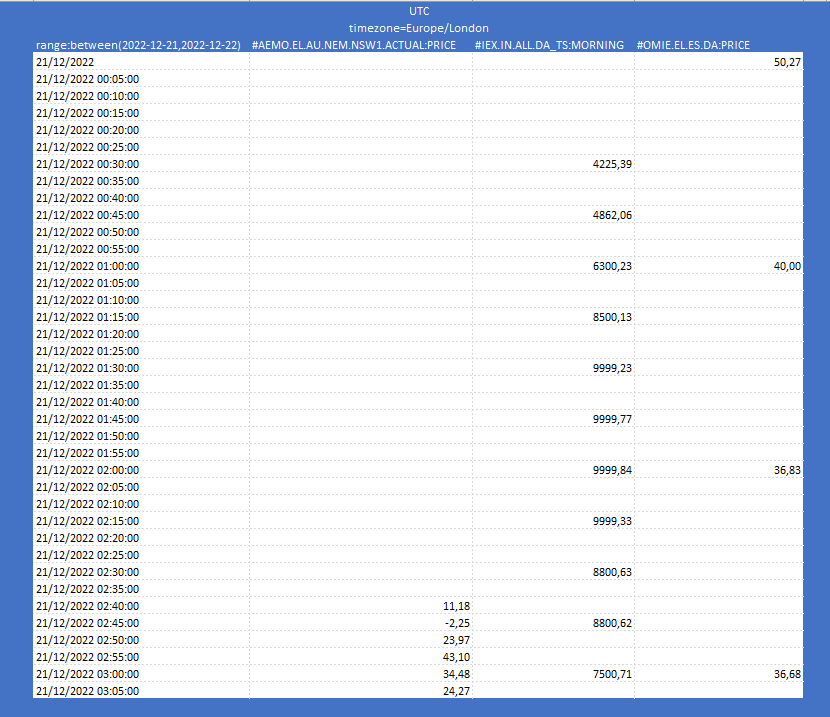
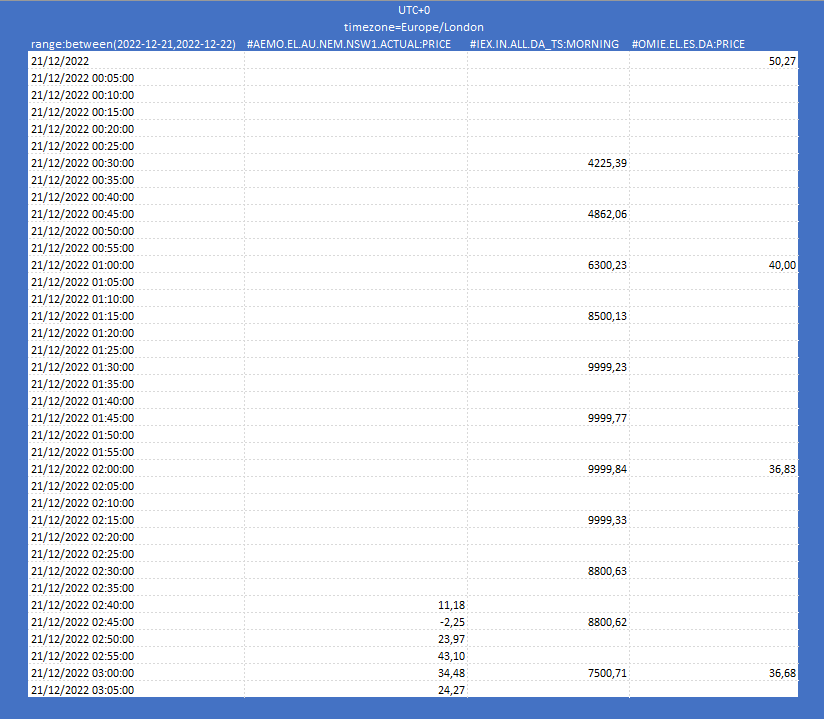
updating blog and resize pictures

diff --git a/blog/2023-03-07-timezones/index.md b/blog/2023-03-07-timezones/index.md
@@ -55,7 +55,7 @@ Using the ODSL Excel-Addin to retrieve the data for 21 December 2022:
 
 The specific MORNING power block, showing up electricity prices in INR/MWH for the hours 6:00 - 10:00 [UTC+5:30] on a 15 minutely granularity from the data source [IEX](https://www.iexindia.com/).
 
-The MORNING power block #IEX_BLOCKCALENDAR_MORNING with time zone Asia/Calcutta is defined as follows:
+Let's check how the MORNING power block #IEX_BLOCKCALENDAR_MORNING with time zone Asia/Calcutta is defined:
 
 ```js
 [
@@ -96,13 +96,15 @@ Using the ODSL Excel-Addin to retrieve the data for 21 December 2022:
 <img className={styles.product_screenshot} src="/img/blog/timezone/tz_australia.PNG" />
 
 
-### Output: Conversion to timezone=Europe/London [UTC]
-The electricity data from three different locations on three different granularities are converted to timezone=Europe/London [UTC] and downloaded into an ExcelSheet using our ODSL Excel-Addin.
+### Output: Conversion to timezone=Europe/London [UTC+0]
+The electricity data from three different locations on three different granularities are converted to timezone=Europe/London [UTC+0] and downloaded into an ExcelSheet using our ODSL Excel-Addin.
 
 <img className={styles.product_screenshot} src="/img/blog/timezone/tz_joined.PNG" />
 
 
+## Daylight saving time
 
+You miss information on daylight saving time? This is a topic for another blog.
 
 
 
